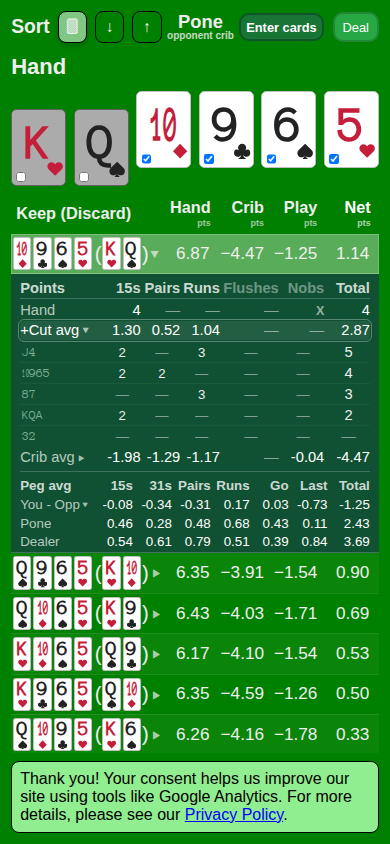
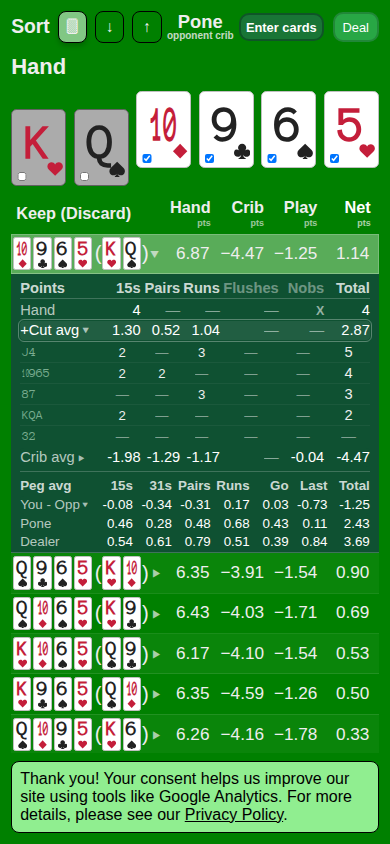
fix: improve privacy link contrast
Use a high-contrast Privacy Policy link on the consent surface and guard its rendered color in Playwright.

diff --git a/tests-e2e/index.screenshots.spec.ts b/tests-e2e/index.screenshots.spec.ts
@@ -12,6 +12,16 @@ const testInitialRenderScreenshot = () =>
     await expect(page).toHaveScreenshot();
   });
 
+test("Privacy Policy link has a high-contrast color on the consent surface", async ({
+  page,
+}) => {
+  await page.goto(`/${constantHandQuery}`);
+
+  await expect(
+    page.getByRole("button", { exact: true, name: "Privacy Policy" }),
+  ).toHaveCSS("color", "rgb(0, 0, 0)");
+});
+
 const testEnterCardsDialogScreenshot = () =>
   test("enter cards dialog still visually the same", async ({ page }) => {
     await page.goto(`/${constantHandQuery}`);

diff --git a/src/ui-react/AnalyticsConsentDialog.module.css b/src/ui-react/AnalyticsConsentDialog.module.css
@@ -54,6 +54,12 @@
   margin: 0.5em 0;
 }
 
+.privacy-policy-link {
+  color: black;
+  cursor: pointer;
+  text-decoration: underline;
+}
+
 button + button {
   margin-left: 0.5em;
 }

diff --git a/src/ui-react/AnalyticsConsentDialog.tsx b/src/ui-react/AnalyticsConsentDialog.tsx
@@ -158,14 +158,10 @@ export function AnalyticsConsentDialog({
 
   const PrivacyPolicyLink = (
     <span
+      className={classes.privacyPolicyLink}
       onClick={displayModal}
       onKeyDown={handleKeyDownEnter}
       role="button"
-      style={{
-        color: "blue",
-        cursor: "pointer",
-        textDecoration: "underline",
-      }}
       tabIndex={0}
     >
       Privacy Policy

diff --git a/src/ui-react/AnalyticsConsentDialog.module.css.d.ts b/src/ui-react/AnalyticsConsentDialog.module.css.d.ts
@@ -3,5 +3,6 @@ declare const classes: {
   readonly analyticsConsentDialogFading: string;
   readonly analyticsConsentDialogMinimal: string;
   readonly analyticsConsentDialogMinimalAnimated: string;
+  readonly privacyPolicyLink: string;
 };
 export = classes;